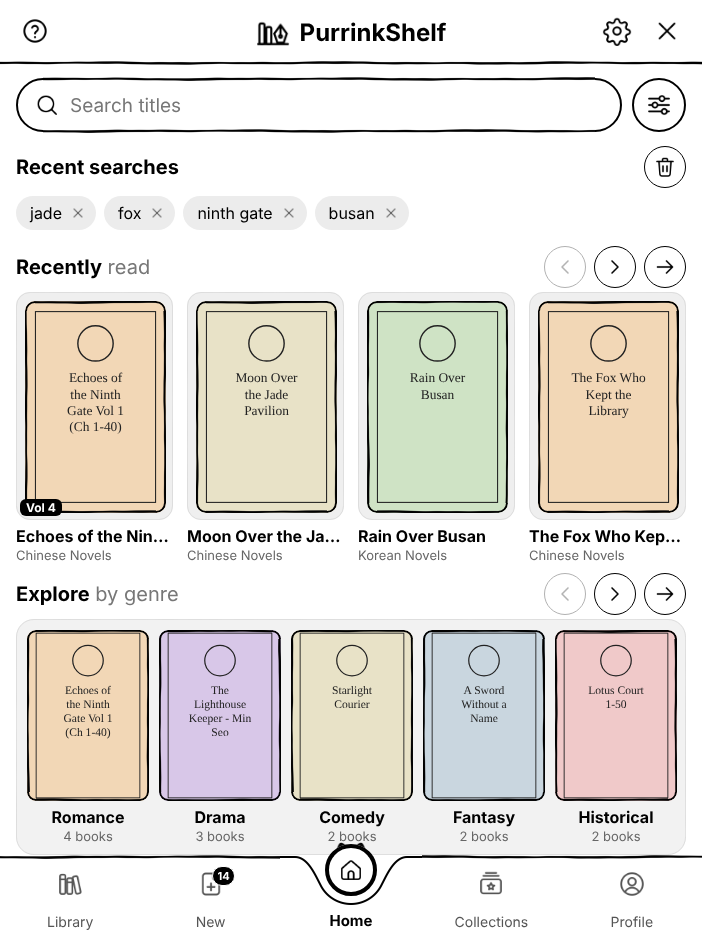
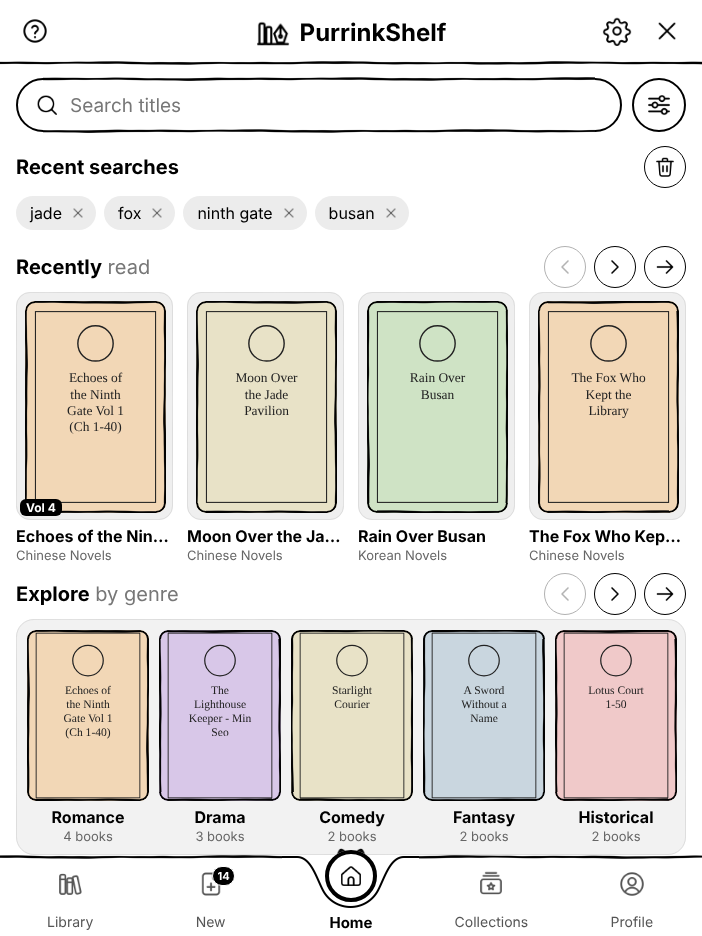
Bottom-bar circle evenly spaced between the page and its label; 1.1.4
Claude-Session: https://claude.ai/code/session_01X56ddDHNWUKJn2BBuoFg9X

diff --git a/App.tsx b/App.tsx
@@ -3772,7 +3772,7 @@ function Taskbar({tab, onTab, newCount}: {tab: Tab; onTab: (t: Tab) => void; new
                 {/* the open tab sits in a dip cut into the bar, like a call-to-action button */}
                 {/* one smooth curve: flat bar, soft shoulder, round dip around the button, soft shoulder */}
                 <Image source={DIP_IMG} style={st.dip} resizeMode="stretch" />
-                {CAT ? <CatImg name="ears" w={px(32)} style={{position: 'absolute', top: -px(14) - px(2), alignSelf: 'center'}} /> : null}
+                {CAT ? <CatImg name="ears" w={px(32)} style={{position: 'absolute', top: -px(8) - px(2), alignSelf: 'center'}} /> : null}
                 <View style={st.taskCta}>
                   <Icon name={icon} size={px(26)} />
                   {badge}
@@ -5957,10 +5957,10 @@ const st = StyleSheet.create({
   infoValue: {fontSize: px(17), lineHeight: px(24), color: BLACK},
   taskbar: {height: TASK_H, flexDirection: 'row', borderTopWidth: px(2), borderColor: BLACK, backgroundColor: '#ffffff', overflow: 'visible'},
   // a half circle cut down into the bar (only its lower half shows), with the button sitting in it
-  dip: {position: 'absolute', top: -px(3), alignSelf: 'center', width: px(142), height: px(51)}, // tools/logo/taskbar-dip.svg
-  taskCta: {position: 'absolute', top: -px(14), alignSelf: 'center', width: px(52), height: px(52), borderRadius: px(26), borderWidth: px(4), borderColor: BLACK, backgroundColor: '#ffffff', alignItems: 'center', justifyContent: 'center'},
+  dip: {position: 'absolute', top: -px(3), alignSelf: 'center', width: px(137), height: px(54)}, // tools/logo/taskbar-dip.svg
+  taskCta: {position: 'absolute', top: -px(8), alignSelf: 'center', width: px(52), height: px(52), borderRadius: px(26), borderWidth: px(4), borderColor: BLACK, backgroundColor: '#ffffff', alignItems: 'center', justifyContent: 'center'},
   taskLabel: {position: 'absolute', bottom: px(6), fontSize: px(14), color: '#555555'},
-  taskLabelOn: {fontWeight: 'bold', fontSize: px(15), color: BLACK},
+  taskLabelOn: {fontWeight: 'bold', fontSize: px(15), color: BLACK, bottom: px(4)},
   task: {flex: 1, alignItems: 'center', justifyContent: 'flex-start'},
   taskIcon: {width: px(64), height: px(48), borderRadius: px(24), alignItems: 'center', justifyContent: 'center'},
   taskText: {fontSize: px(13), color: BLACK, marginTop: px(1)},
